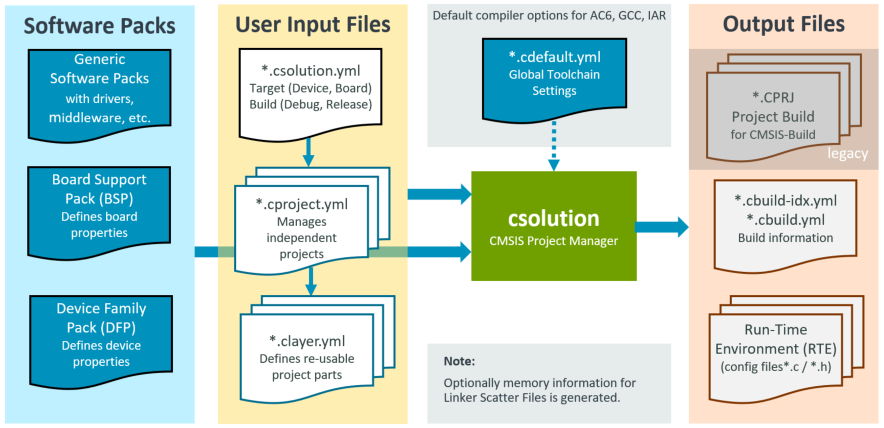
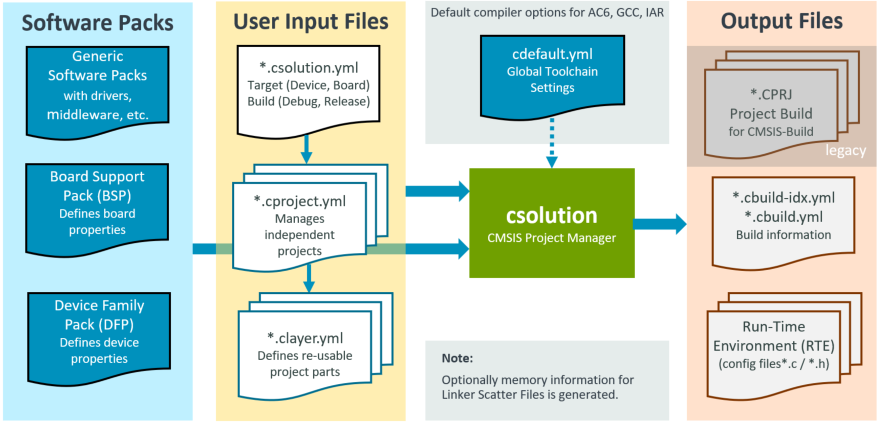
Renamed `.cdefault.yml` to just `cdefault.yml`, minor manual clarifications

diff --git a/tools/projmgr/docs/Manual/YML-Input-Format.md b/tools/projmgr/docs/Manual/YML-Input-Format.md
@@ -61,7 +61,7 @@ Project Manager.
     - [`for-compiler:`](#for-compiler)
     - [`for-context:`](#for-context)
     - [`not-for-context:`](#not-for-context)
-    - [Context list](#context-list)
+    - [Context List](#context-list)
     - [Usage](#usage)
   - [Multiple Projects](#multiple-projects)
     - [`projects:`](#projects)
@@ -327,7 +327,9 @@ DEPRECATE: `$Out(context)$`                    | Path to the output directory of
 
 For a [`context`](#context-name-conventions) the `project-name` must be specified. The `.build-type` and `+target-type` are optional; when omitted the `.build-type` and/or `+target-type` of the current processed context is used. Example: `$Project$` or `$Project()$` both get the based name of the current processed `cproject.yml` file.
 
-> **Note:** The access sequences below are not completed yet, as they require a change to CMSIS-Build.
+> **Note:**
+> 
+> The access sequences below are not completed yet, as they require a change to CMSIS-Build.
 
 Access Sequence                                | Description
 :----------------------------------------------|:--------------------------------------
@@ -371,23 +373,27 @@ the same `build-type` and `target-type` is used as for the `MQTT_AWS.cproject.ym
 
 ```yml
     files:
-    - file: `$Output(TFM)$`.o                             # use the symbol output file of the TFM Project
+    - file: $cmse-lib(TFM)$                              # use the symbol output file of the TFM Project
 ```
 
 The example below uses from the TFM project always `build-type: Debug` and the `target-type: Production-HW`.
 
 ```yml
     files:
-    - file: `$Output(TFM.Release+Production-HW)$`.o       # use the symbol output file of the TFM Project
+    - file: `$cmse-lib(TFM.Release+Production-HW)$`      # use the symbol output file of the TFM Project
 ```
 
 The example below uses the `build-type: Debug`. The `target-type` of the current processed context is used.
+
+> **Note:** 
+> 
+> `-execute` is scheduled for implementation in CMSIS-Toolbox 2.1 (Q3'23)
 
 ```yml
   - execute: Generate Image
     os: Windows                           # on Windows run from
     run: $DPack$/bin/gen_image.exe        # DFP the get_image tool
-    arg: -input $Output(TFM.Debug).axf -output $Output(TFM.Debug)
+    arg: -input $elf(TFM.Debug)$ -output $OutDir(TFM.Debug)$
 ```
 
 The example below creates a `define` that uses the device name.
@@ -468,14 +474,12 @@ Keyword                          | Description
 
 ### `default:`
 
-When [`cdefault:`](#solution) is specified in the `csolution.yml` file, the **csolution - CMSIS Project Manager** uses a file with the name `*.cdefault.yml` or `*.cdefault.yaml` to setup 
-the compiler along with some specific controls. The search order for this file is:
+When [`cdefault:`](#solution) is specified in the `*.csolution.yml` file, the **csolution - CMSIS Project Manager** uses a file with the name `cdefault.yml` or `cdefault.yaml` to setup 
+the compiler along with some specific default controls. The search order for this file is:
 
-> ToDo: what is used `<solution-name>.cdefault.yml` or just `.cdefault.yml`?
-
-- An explicit file with the name `<solution-name>.cdefault.yml` in the same directory as the `<solution-name>.csolution.yml` file. 
-- Any `*.cdefault.yml` or `*.cdefault.yaml` file in the directory specified by the environment variable [`CMSIS_COMPILER_ROOT`](https://github.com/Open-CMSIS-Pack/cmsis-toolbox/blob/main/docs/installation.md#environment-variables).
-- Any `*.cdefault.yml` or `*.cdefault.yaml` file in the directory [`<cmsis-toolbox-installation-dir>/etc`](https://github.com/Open-CMSIS-Pack/cmsis-toolbox/blob/main/docs/installation.md##etccmake).
+- A `cdefault.yml` or `cdefault.yaml` file in the same directory as the `<solution-name>.csolution.yml` file. 
+- A `cdefault.yml` or `cdefault.yaml` file in the directory specified by the environment variable [`CMSIS_COMPILER_ROOT`](https://github.com/Open-CMSIS-Pack/cmsis-toolbox/blob/main/docs/installation.md#environment-variables).
+- A `cdefault.yml` or `cdefault.yaml` file in the directory [`<cmsis-toolbox-installation-dir>/etc`](https://github.com/Open-CMSIS-Pack/cmsis-toolbox/blob/main/docs/installation.md##etccmake).
 
 The `default:` node is the start of a `*.cdefault.yml` or `*.cdefault.yaml` file and contains the following.
 
@@ -1085,7 +1089,7 @@ The `packs:` node can be specified in the `*.csolution.yml` file allows you to:
 The  [Pack Name Conventions](#pack-name-conventions) are used to specify the name of the software packs.
 The `pack:` definition may be specific to a [`context`](#context) that specifies `target-types:` and/or `build-types:` or provide a local path to a development repository of a software pack.
 
->**NOTES:** 
+>**Notes:** 
 >
 > - By default, the **csolution - CMSIS Project Manager** only loads the latest version of the installed software packs. It is however possible to request specific versions using the `- pack:` node.
 >
@@ -1371,7 +1375,7 @@ for-compiler:                        # add item
 
 A [*context*](#context-name-conventions) list that adds a list-node for specific `target-types:` and/or `build-types:`.
 
-> **NOTE:**
+> **Note:**
 > 
 > `for-type:` is identical to `for-context:`. `for-type:` will be deprecated and replaced by `for-context:` in future versions.
 
@@ -1379,11 +1383,11 @@ A [*context*](#context-name-conventions) list that adds a list-node for specific
 
 A [*context*](#context-name-conventions) list that removes a list-node for specific `target-types:` and/or `build-types:`.
 
-> **NOTE:**
+> **Note:**
 > 
 > `not-for-type:` is identical to `not-for-context:`. `not-for-type:` will be deprecated and replaced by `not-for-context:` in future versions.
 
-### Context list
+### Context List
 
 It is also possible to provide a [`context`](#context-name-conventions) list with:
 

diff --git a/tools/projmgr/docs/Manual/Overview.md b/tools/projmgr/docs/Manual/Overview.md
@@ -16,7 +16,7 @@ Manual Chapters                                         | Content
 [Usage](#usage)                                         | Overall Concept, tool setup, and invocation commands.
 [Project Examples](#project-examples)                   | Various example projects to get started.
 [Project Structure](#project-structure)                 | Overall structure of projects.
-[YML Input Format](YML-Input-Format.md)                 | Format of the various YAML input files (`*.csolution.yml`, `*.cproject.yml`, `*.clayer.yml`, `*.cdefault.yml`).
+[YML Input Format](YML-Input-Format.md)                 | Format of the various YAML input files (`*.csolution.yml`, `*.cproject.yml`, `*.clayer.yml`, `cdefault.yml`).
 [Linker Script Management](Linker-Script-Management.md) | Specify the available memory and control the linker operation.
 [Build Operation](Build-Operation.md)                   | Build process overview and toolchain interface for adding additional compilers.
 [YML CBuild Format](YML-CBuild-Format.md)               | Format of the YAML CBuild output file.
@@ -99,7 +99,7 @@ Input Files              | Description
 [Generic Software Packs](https://open-cmsis-pack.github.io/Open-CMSIS-Pack-Spec/main/html/cp_PackTutorial.html#cp_SWComponents) | Provide re-usable software components that are typically configurable  towards a user application.
 [DFP Software Packs](https://open-cmsis-pack.github.io/Open-CMSIS-Pack-Spec/main/html/cp_PackTutorial.html#createPack_DFP)     | Device related information (including memory sizes) for the tool configuration.
 [BSP Software Packs](https://open-cmsis-pack.github.io/Open-CMSIS-Pack-Spec/main/html/cp_PackTutorial.html#createPackBoard)    | Board specific configuration (i.e. additional memory resources).
-[*.cdefault.yml](YML-Input-Format.md#default)           | When enabled with [`cdefault:`](YML-Input-Format.md#solution), setup of toolchain specific controls and pre-defined toolchains.
+[cdefault.yml](YML-Input-Format.md#default)           | When enabled with [`cdefault:`](YML-Input-Format.md#solution), setup of toolchain specific controls and pre-defined toolchains.
 [*.csolution.yml](YML-Input-Format.md#solution)         | Complete scope of the application with build order of sub-projects. Defines [target](YML-Input-Format.md#target-types) and [build](YML-Input-Format.md#build-types) types.
 [*.cproject.yml](YML-Input-Format.md#project)           | Content of an independent build (linker run) - directly relates to a `*.cprj` file.
 [*.clayer.yml](YML-Input-Format.md#layer)               | Set of source files along with pre-configured components for reuse in different applications.
@@ -332,7 +332,7 @@ project:
 
 ### Compiler Agnostic Project
 
-With generic [**Translation Control**](YML-Input-Format.md#translation-control) settings it is possible to create projects that work across the range of supported compilers (AC6, GCC, IAR).  The compiler selection and potential compiler specific settings can be stored in the file `*.cdefault.yml`. By replacing the `*.cdefault.yml` file it is possible to re-target application projects.  [**Translation Control**](YML-Input-Format.md#translation-control) settings are mapped to specify compiler by the build tools.
+With generic [**Translation Control**](YML-Input-Format.md#translation-control) settings it is possible to create projects that work across the range of supported compilers (AC6, GCC, IAR).  The compiler selection and potential compiler specific settings can be stored in the file `cdefault.yml`. By replacing the `cdefault.yml` file it is possible to re-target application projects.  [**Translation Control**](YML-Input-Format.md#translation-control) settings are mapped to specify compiler by the build tools.
 
 **Default settings for multiple compiler toolchains**
 
@@ -598,10 +598,10 @@ solution:
       debug: on
     
   projects:
-    - project: /security/TFM.cproject.yml
+    - project: ./security/TFM.cproject.yml
       for-context: .Release
-    - project: /application/MQTT_AWS.cproject.yml
-    - project: /bootloader/Bootloader.cproject.yml
+    - project: ./application/MQTT_AWS.cproject.yml
+    - project: ./bootloader/Bootloader.cproject.yml
       not-for-context: +Virtual
 ```
 
